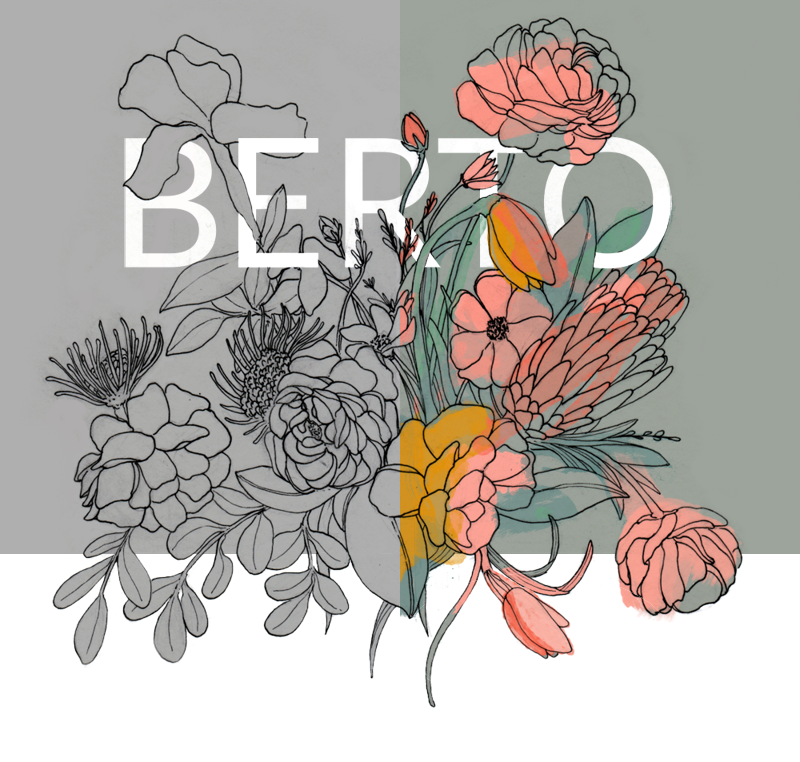
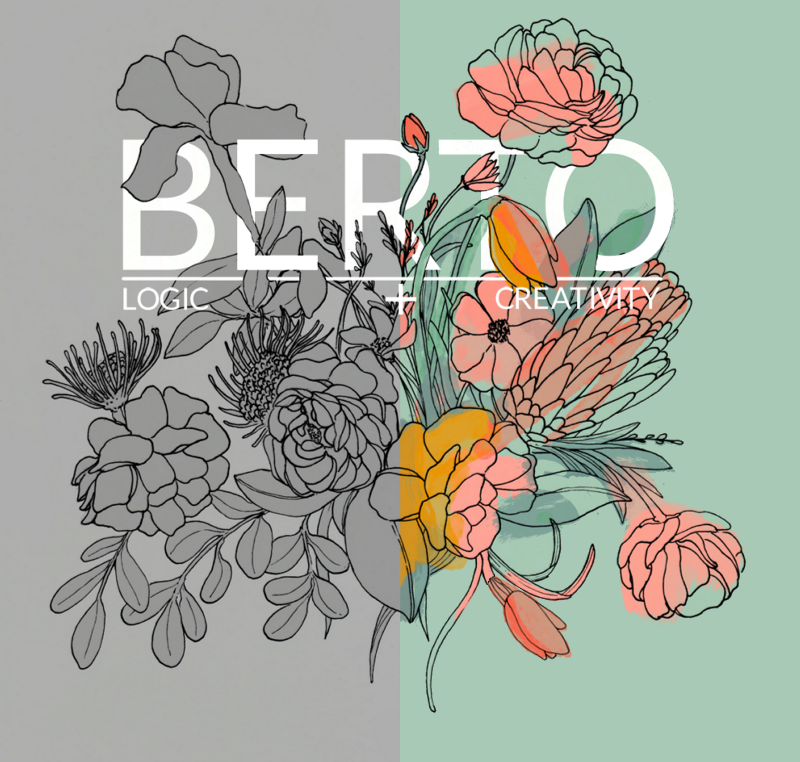
updated BKG image and edited copy

diff --git a/index.html b/index.html
@@ -52,7 +52,7 @@
                                             </div>
                                         </div>
                                         <hr>
-                                        Roberto Rubet (Berto) is a Latino artist that upon completeing the Full Stack Web Development Bootcamp, through the University of Richmond, will be a well rounded web development powerhouse. With 18 years of experience as a designer/illustrator and his ability to absorb complex technical data, he will emerge as a developer capable of unifying design and technology, creation and implementation, analysis and realization. You can see examples of his work here. (backgrounds & illustrations created by Berto!)                                    
+                                        Roberto Rubet (Berto) is a Latino artist that upon completeing the Full Stack Web Development Bootcamp, through the University of Richmond, will be a well rounded web development powerhouse. With 18 years of experience as a designer/illustrator and his ability to absorb complex technical data, he will emerge as a developer capable of unifying design and technology, creation and implementation, analysis and realization. (backgrounds & illustrations created by Berto!)                                    
                                     </div>
                                 </div>
                             </div>

diff --git a/assets/css/style.css b/assets/css/style.css
@@ -1,7 +1,7 @@
 body {
     width: 100%;
     height: 100%;
-    background: linear-gradient(to right, #afafaf 0%, #afafaf 50%, #9da49c 50%, #9da49c 100%);
+    background: linear-gradient(to right, #afafaf 0%, #afafaf 50%, #a7c9b5 50%, #a7c9b5 100%);
 }
 
 .locr {
